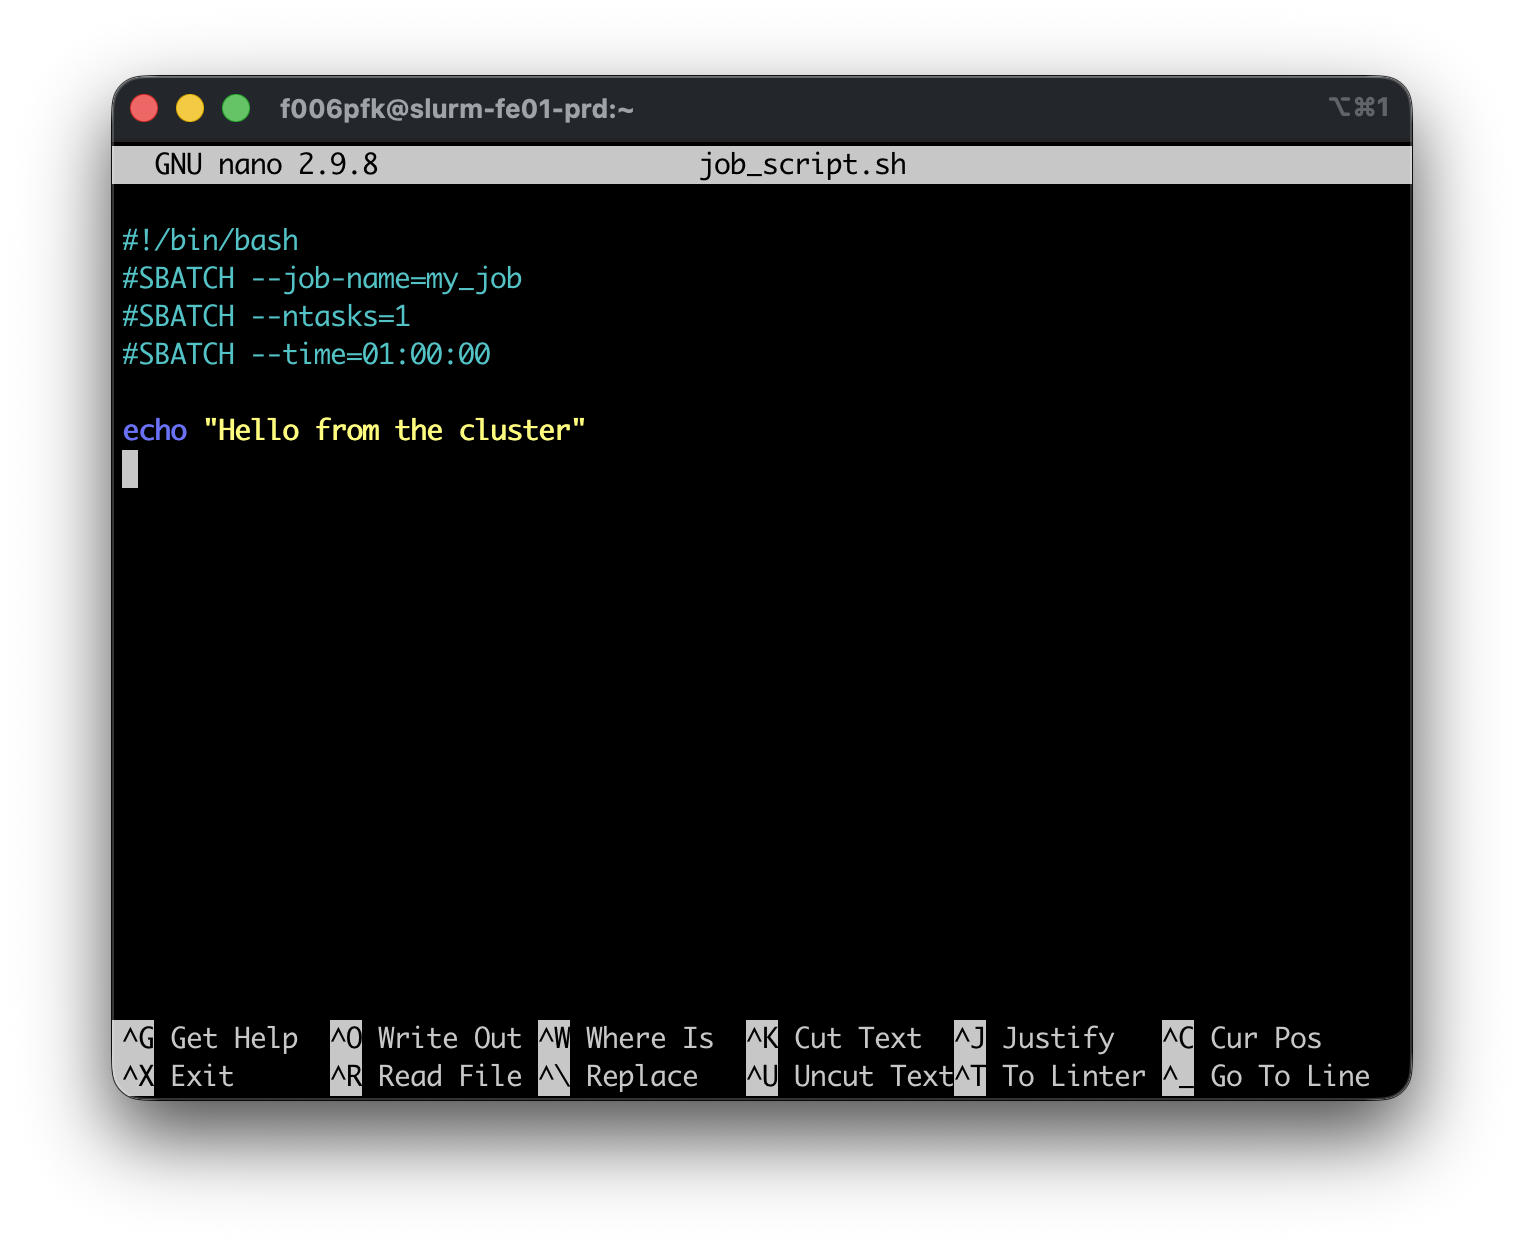
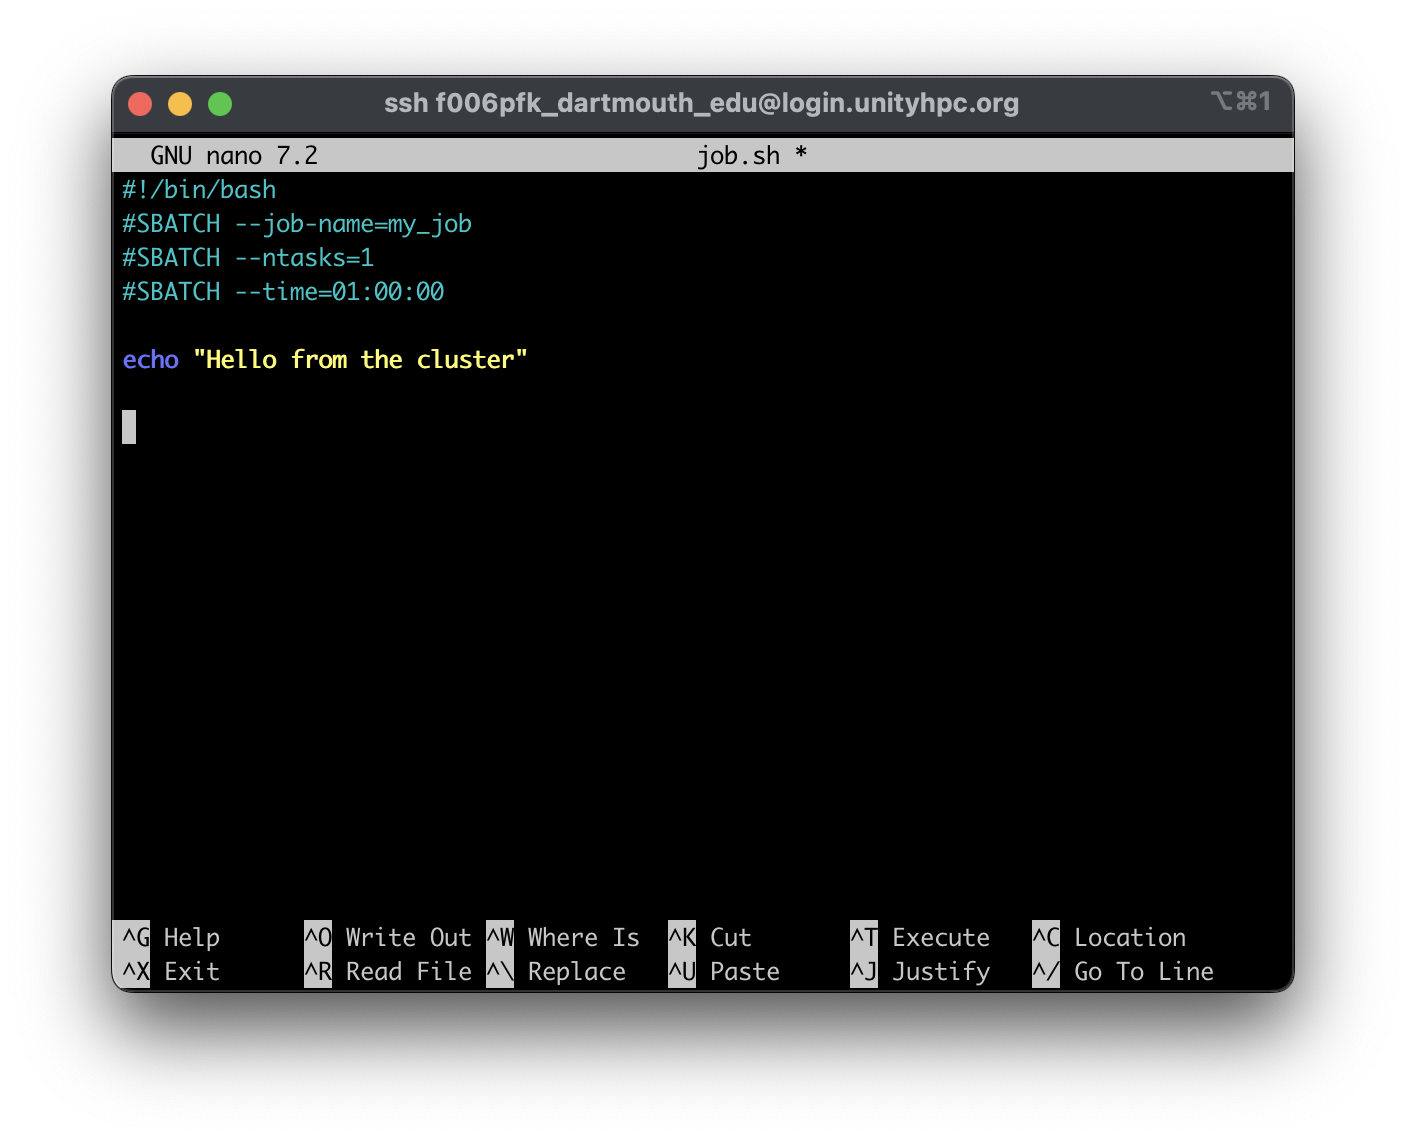
refac: review connecting

Changed region(s): [[0.0612, 0.0614, 0.9481, 0.8904]]

diff --git a/docs/javascripts/ssh-simulator.js b/docs/javascripts/ssh-simulator.js
@@ -19,6 +19,7 @@
         hostname: "login.unityhpc.org",
         sharedMemoryHostname: "",
         defaultUsername: "f00001_dartmouth_edu",
+        usernameSuffix: "_dartmouth_edu",
     };
     // ═══════════════════════════════════════════════════════
 
@@ -161,13 +162,23 @@
         var clusterName = container.getAttribute("data-cluster-name") || CONFIG.clusterName;
         var hostname = CONFIG.hostname;
         var sharedMemoryHostname = CONFIG.sharedMemoryHostname;
+        var usernameSuffix = container.getAttribute("data-username-suffix");
+        if (usernameSuffix === null) usernameSuffix = CONFIG.usernameSuffix;
         var els = buildDOM(container, clusterName);
 
         els.input.addEventListener("input", function () { els.btn.disabled = !els.input.value.trim(); });
         els.input.addEventListener("keydown", function (e) { if (e.key === "Enter" && els.input.value.trim()) els.btn.click(); });
 
         els.btn.addEventListener("click", function () {
-            var username = els.input.value.trim() || CONFIG.defaultUsername;
+            var rawInput = els.input.value.trim();
+            var username;
+            if (rawInput) {
+                username = (usernameSuffix && !rawInput.endsWith(usernameSuffix))
+                    ? rawInput + usernameSuffix
+                    : rawInput;
+            } else {
+                username = CONFIG.defaultUsername;
+            }
 
             els.splash.style.display = "none";
             els.termContainer.className = "ss-terminal-container active";

diff --git a/docs/getting-started/connecting.md b/docs/getting-started/connecting.md
@@ -241,7 +241,7 @@ software that draws the remote windows on your screen.
 
 Ready to try it out? This interactive widget simulates a local terminal on your machine. You can practice logging in and dealing with common errors before you try the real thing.
 
-<div class="ssh-simulator" data-cluster-name="{{ cluster.name }}" markdown="0"></div>
+<div class="ssh-simulator" data-cluster-name="{{ cluster.name }}" data-username-suffix="{{ institution.username_suffix }}" markdown="0"></div>
 
 ## Next Steps
 
